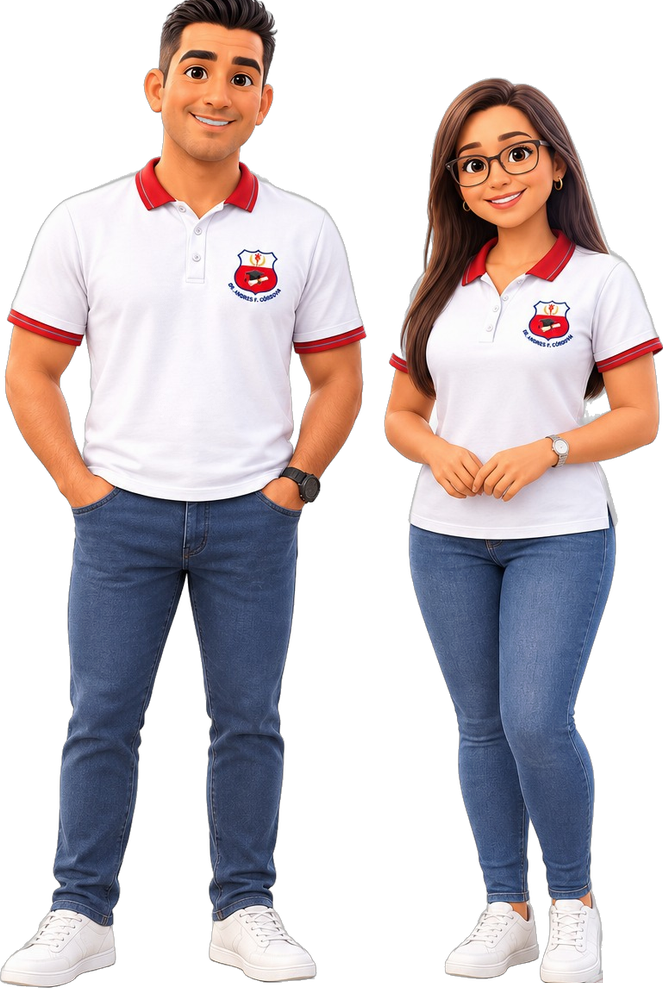
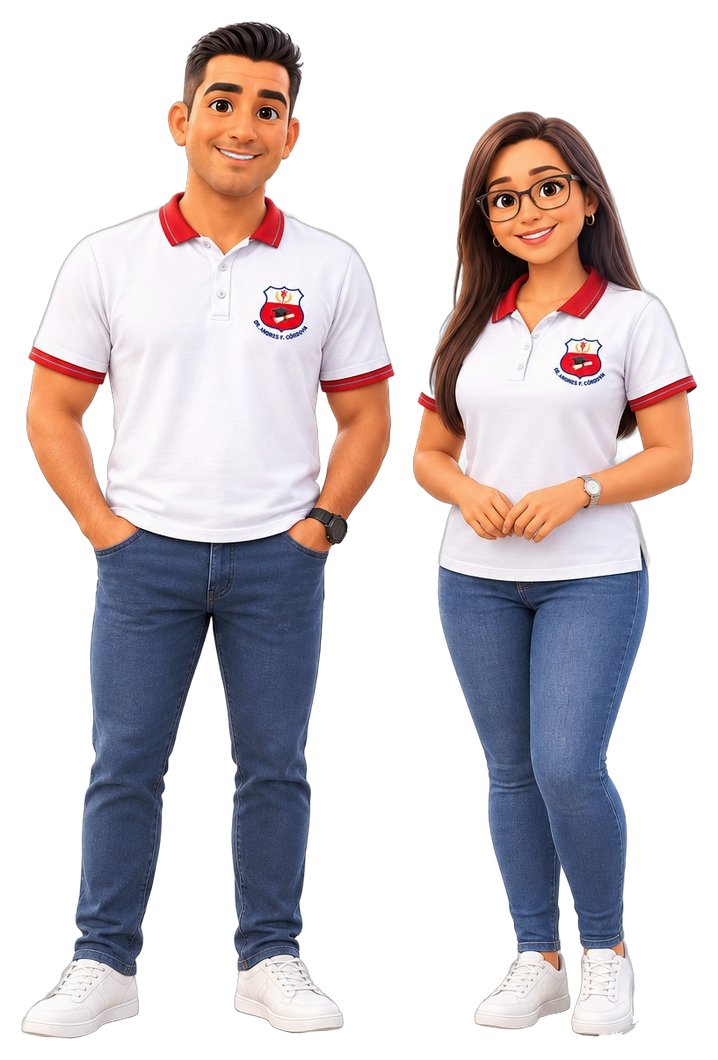
Docentes completos (sin recortes), visibles también en celular; marcas de agua desactivadas
Claude-Session: https://claude.ai/code/session_01GPMYcpYVHYXB2cg5tVNeH7

diff --git a/src/app/ingresar/FormularioIngreso.tsx b/src/app/ingresar/FormularioIngreso.tsx
@@ -68,8 +68,11 @@ export default function FormularioIngreso({ url, clave }: { url: string; clave: 
       {/* eslint-disable-next-line @next/next/no-img-element */}
       <img src="/docentes.png" alt="Docentes de la institución" className="hidden h-[520px] w-auto justify-self-center drop-shadow-xl lg:block" />
       <div className="mx-auto w-full max-w-md">
+        {/* En celular: los docentes, más pequeños, encima del formulario */}
+        {/* eslint-disable-next-line @next/next/no-img-element */}
+        <img src="/docentes.png" alt="" aria-hidden="true" className="mx-auto mb-2 h-56 w-auto drop-shadow-lg lg:hidden" />
       {/* eslint-disable-next-line @next/next/no-img-element */}
-      <img src="/logo-ue.png" alt="Logo de la institución" className="mb-3 h-36 w-auto drop-shadow-sm" />
+      <img src="/logo-ue.png" alt="Logo de la institución" className="mb-3 h-24 w-auto drop-shadow-sm lg:h-36" />
       <h1 className="text-2xl font-bold text-marca">{NOMBRE_SITIO}</h1>
       <p className="text-sm font-medium text-slate-500">{SUBTITULO_SITIO}</p>
       <p className="mt-4 text-slate-600">{modo === "ingresar" ? "Ingresa con tu cuenta" : modo === "registro" ? "Crea tu cuenta docente" : "Recupera tu contraseña"}</p>

diff --git a/src/app/globals.css b/src/app/globals.css
@@ -17,8 +17,13 @@
 
 body {
   background-color: #f8fafc;
+  color: #0f172a;
+}
+
+/* Marcas de agua (desactivadas por ahora). Para activarlas, agregar la clase
+   "marcas-agua" al <body> en src/app/layout.tsx. */
+body.marcas-agua {
   background-image: url("/marcas-agua.svg");
   background-size: 520px 520px;
   background-attachment: fixed;
-  color: #0f172a;
 }
